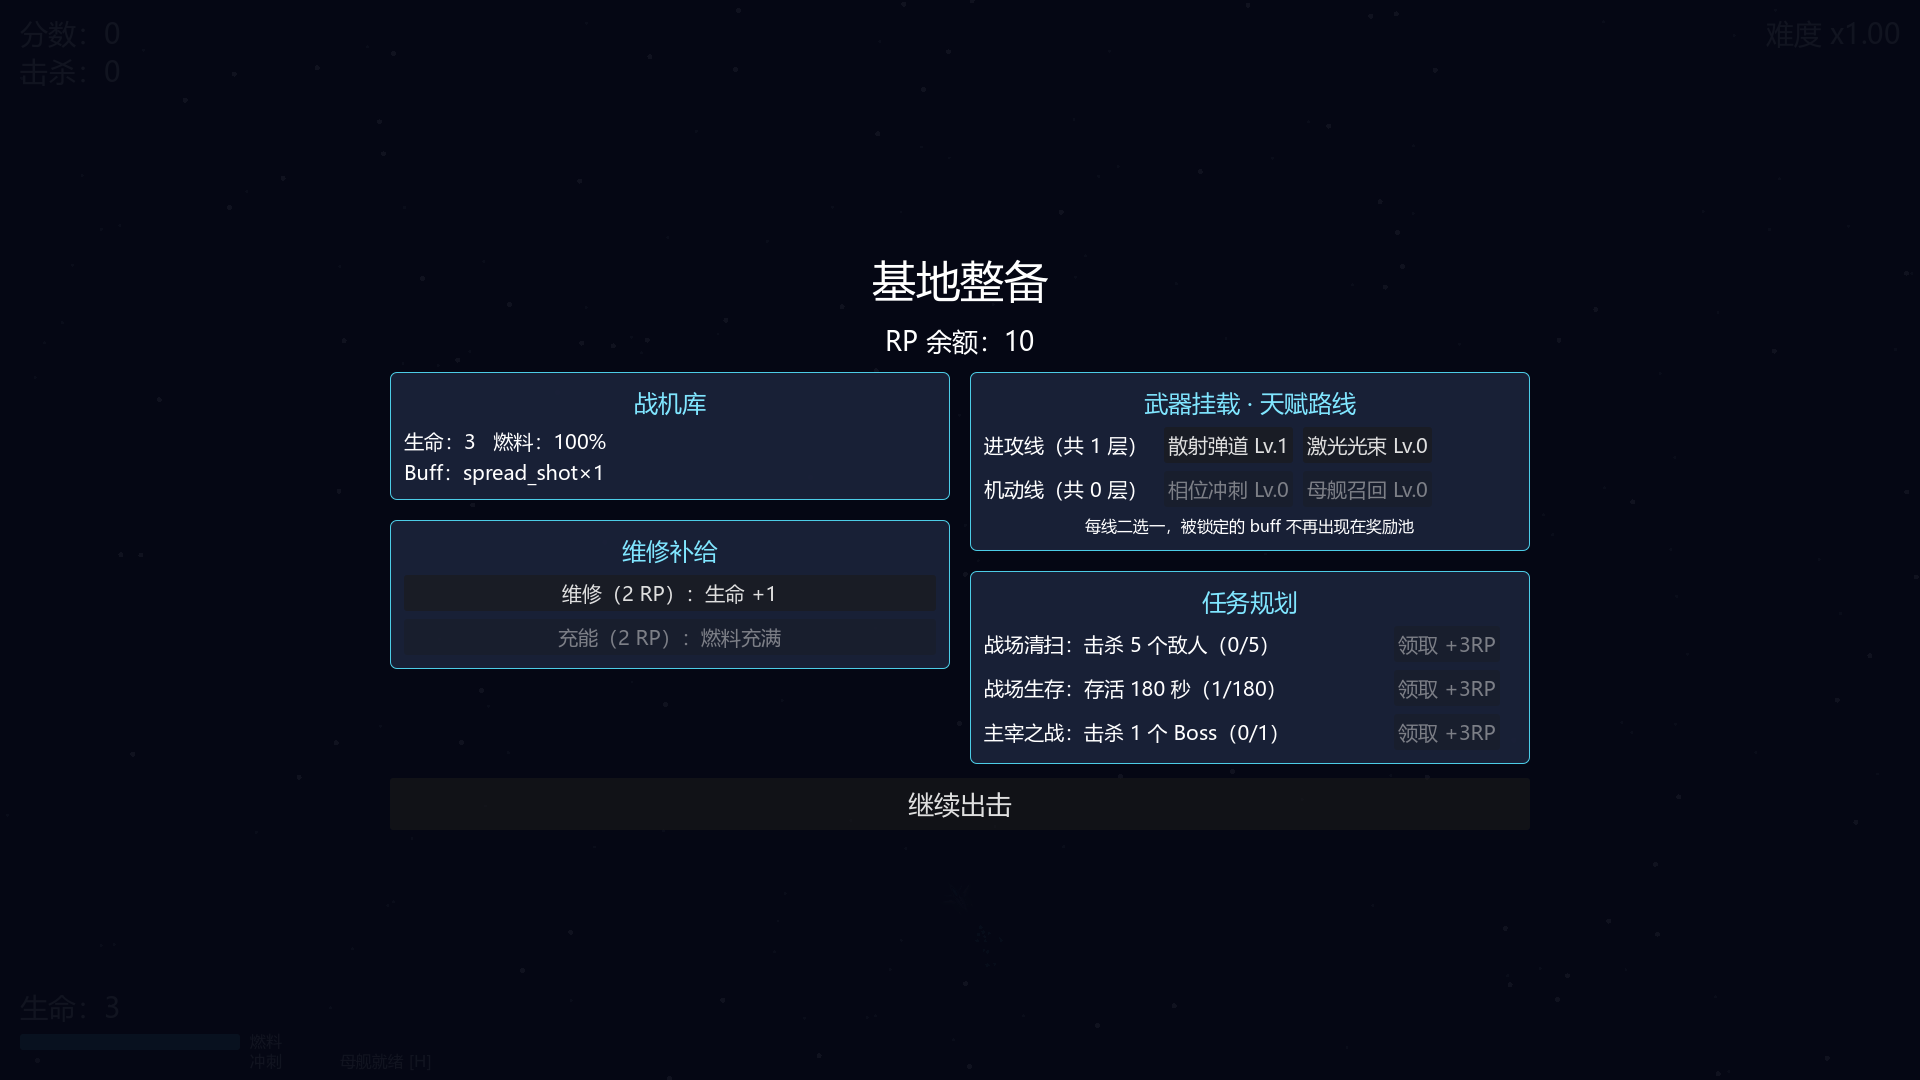
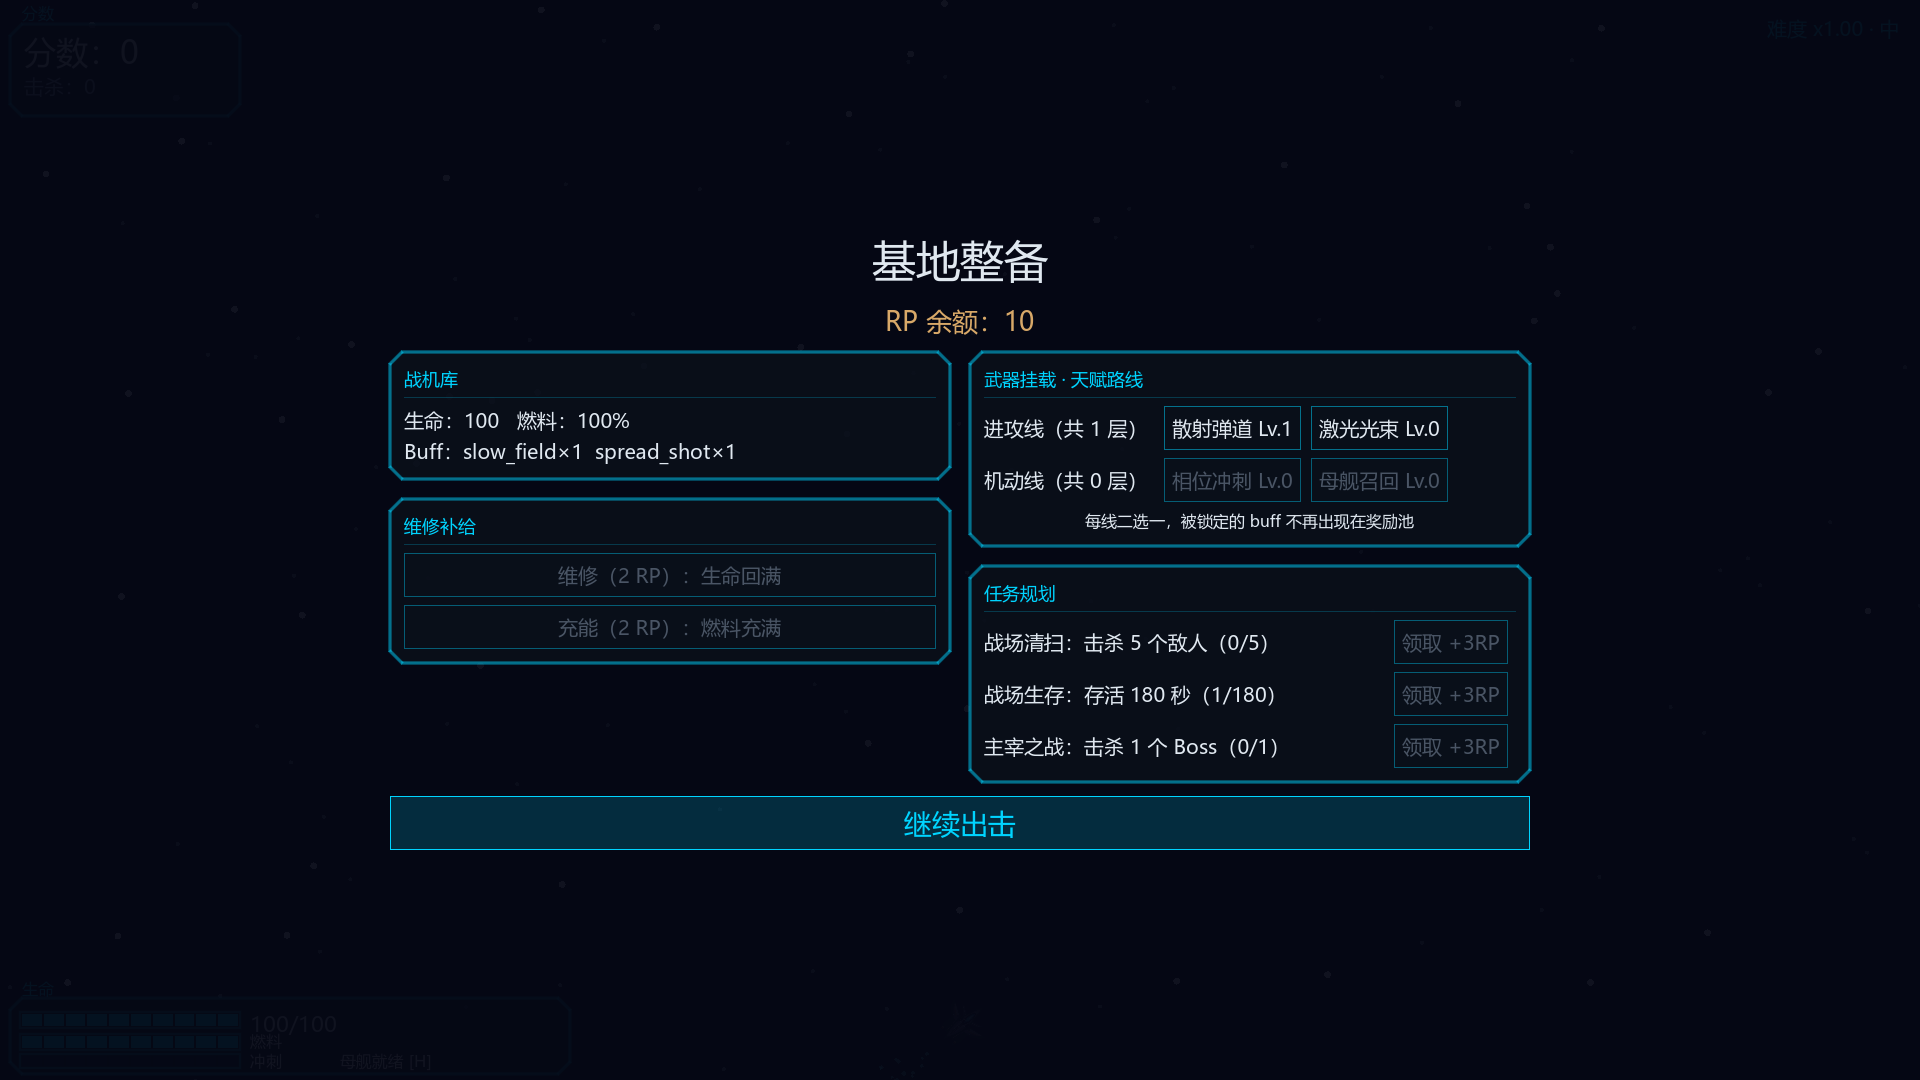
docs: README 中英双版重构——对齐当前功能全景
- 亮点/玩法循环:Boss 狂暴完整序列、全息 UI 设计系统、碰撞点光点、
  欢迎页、窗口大小三档、提前离舰进度条等全部补齐
- 运行验证:17 个测试场景 586 项断言全量列出(实测计数),
  新增 autoplay 探针与 ui_capture 说明
- 路线图:勾选 3.10,补 3.11-3.14 四个迭代
- 截图:gameplay/base 换新(新 UI+新机体可视性),新增主界面 start.png

Changed region(s): [[0.1875, 0.2139, 0.8125, 0.7944]]

diff --git a/README.en.md b/README.en.md
@@ -8,7 +8,7 @@
 
 [![Godot](https://img.shields.io/badge/godot-4.6-478cbf?logo=godot-engine&logoColor=white)](https://godotengine.org/)
 [![GDScript](https://img.shields.io/badge/GDScript-100%25-478cbf)](https://docs.godotengine.org/en/stable/tutorials/scripting/gdscript/)
-[![Tests](https://img.shields.io/badge/tests-446%20passed-brightgreen)](#verification)
+[![Tests](https://img.shields.io/badge/tests-586%20passed-brightgreen)](#verification)
 [![Platform](https://img.shields.io/badge/platform-macOS%20%7C%20Windows%20%7C%20Linux-lightgrey)](#getting-started)
 
 <img src="./docs/screenshots/gameplay.png" alt="InfiAir gameplay" width="760">
@@ -34,16 +34,18 @@
 
 - **A complete sortie loop**: fight waves → pick 1-of-3 buffs at score milestones → rotating bosses → return to base for a mid-run refit → sortie again. Death is the only end.
 - **16 stackable buffs**: damage, fire rate, spread, piercing, explosive, lifesteal, armor, evasion, phase dash, slow field, laser beam and more — drafted at score milestones.
-- **3 rotating bosses + enrage**: heavy / skirmisher / mothership archetypes; they enrage below 30% HP, and flee the battle if you can't kill them within 50 seconds.
-- **Mothership docking**: charge-up summon with automatic point-snap docking — twin turrets sweeping an upward 80° fan, homing-free missile volleys (up to 5 targets), and direct WASD control of the mothership itself while docked. A low-ammo warning precedes a forced undock, or hold H to undock early for a cooldown refund.
+- **3 rotating bosses + a full enrage sequence**: heavy / skirmisher / mothership archetypes. Below 30% HP a boss enters a scripted enrage — HP-lock checkpoint, bullet time, an orbiting attack run around your ship (square → circular path) while you're rooted in place, then a dense release barrage before returning to the fight. Fail to kill within 50 seconds and the boss flees.
+- **Mothership docking**: charge-up summon with a holographic ghost preview and automatic point-snap docking — twin turrets sweeping an upward 80° fan, missile volleys (up to 5 targets), and direct WASD control of the mothership itself while docked. A low-ammo warning precedes a forced undock, or hold H to undock early (with a charge progress bar) for a cooldown refund.
 - **Mid-run base refit**: homecoming does NOT end the run. Four base modules — hangar, weapon hardpoints (mutually exclusive talent routes), repair & resupply (RP economy), and mission planning — then you return to the same battle.
+- **Holographic sci-fi UI design system**: unified color tokens and type scale, chamfered panels, primary/secondary button hierarchy, staggered fade-in motion — every screen (start / settings / pause / game over / buff draft / base) shares one skeleton.
+- **Arcade-grade visibility**: brightened player ship with a cyan rim glow, plus a pulsing hitbox dot on the actual r=7 collision point — never lose your ship in bullet hell.
 - **Fully procedural assets**: all ship sprites are procedurally generated (inherited from the Python original); SFX and BGM are synthesized by `scripts/tools/generate_audio.py`. Zero external asset dependencies.
 
 ## 🖼 Screenshots
 
-| Gameplay | Mothership docking | Base refit |
-|----------|--------------------|------------|
-| ![Gameplay](./docs/screenshots/gameplay.png) | ![Mothership](./docs/screenshots/mothership.png) | ![Base](./docs/screenshots/base.png) |
+| Main menu | Gameplay | Base refit |
+|-----------|----------|------------|
+| ![Main menu](./docs/screenshots/start.png) | ![Gameplay](./docs/screenshots/gameplay.png) | ![Base](./docs/screenshots/base.png) |
 
 ## 🎮 Controls
 
@@ -55,13 +57,15 @@
 | Shift (hold) | Boost (~1.8x speed, drains fuel) |
 | Ctrl (hold) | Precision movement (speed ×0.35) |
 | Space | Phase dash (requires buff; invulnerable, costs 25% fuel) |
-| H (hold 3s) | Charge-summon the mothership (WASD pilots the ship while docked; hold H 2s for early undock) |
+| H (hold 3s) | Charge-summon the mothership (WASD pilots the ship while docked; hold H 2s for early undock, with progress bar) |
 | B (hold 1.5s) | Homecoming — mid-run base refit |
 | K (hold 3s) | Abandon the sortie |
-| ESC | Pause (the pause menu holds the only save entry) |
+| ESC | Global back: pause in combat (only save entry) / back one page / exit confirmation at top level |
 | R | Restart (on game-over / pause screens) |
 
-> Three view zoom levels (Small 1.0 / Medium 1.35 / Large 1.7, default Medium): Settings → Modes → View (persisted in `user://profile.json`; the HUD lives on a CanvasLayer and is unaffected by camera zoom).
+> All keys are rebindable in Settings → Controls (Esc/R are fixed; bindings persist in `user://profile.json`).
+> UI language: English / 中文 via Settings → Modes → Language.
+> Three view zoom levels (1.0 / 1.35 / 1.7, default Medium) and three window sizes (1280×720 / 1600×900 / 1920×1080, default Large) — independent settings, both persisted.
 
 ## 🚀 Getting Started
 
@@ -78,24 +82,29 @@ godot --path .          # run directly, or open the project in the editor and pr
 - Start with 100 HP: taking a hit grants 1.5s of invulnerability and clears enemy bullets within 250px; HP slowly regenerates after a few seconds out of combat (rate varies by difficulty), and can be fully restored by base repairs (2 RP) or mothership resupply; **pure score-based — no item drops**.
 - 4 enemy classes × 8 movement patterns, unlocked progressively by score; 3 elite variants; enemy bullets come in single / spread / laser types (12/10/20 damage, plus 20 for body collisions).
 - Milestone thresholds (starting at 3000, scaling up per cycle) pause the game for a 1-of-3 buff draft; bosses spawn every 1500 points or 90s, granting +500 points and raising the difficulty multiplier (`1 + (2^min(kills,10) − 1) × 0.25`, capped at 8x).
+- Boss enrage below 30% HP: HP locks at the 30% checkpoint (invulnerable during the sequence) → bullet time → the boss orbits your snapshot position while rooting you in place (you can still shoot) → unlock + dense release barrage → returns to the fight permanently enraged (fire rate ×1.5).
 - RP (requisition points) come from boss kills (+5) and base missions (+3), spent on repairs and fuel at the base.
 - Save anytime via the pause menu; continue from the title panel on next launch. Death deletes the save.
-- The start panel includes a tutorial entry: a 6-stage tutorial (movement & aim / boost & dash / combat / mothership docking / homecoming & base / boss enrage); Esc quits anytime, and the button shows "Tutorial ✓" once completed.
+- A welcome screen greets the first launch; the start panel includes a tutorial entry: 6 stages (movement & aim / boost & dash / combat / mothership docking / homecoming & base / boss enrage); Esc quits anytime, and the button shows "Tutorial ✓" once completed.
 
 ## 🏗 Architecture
 
 ```text
 main.tscn (run orchestration)
- ├─ Player (movement / aim assist / auto-fire / fuel / phase dash / laser weapon)
+ ├─ Player (movement / aim assist / auto-fire / fuel / phase dash / laser weapon / hitbox indicator)
  ├─ Spawner (7 enemy-class config tables + score-gated unlocks + boss rotation)
  ├─ Mothership (auto-dock state machine: summon → dock → stay (piloting + sweep + missiles) → release → depart)
- ├─ HUD / BuffSelect / BaseConsole / GameOver / Pause / StartPanel
- └─ GameState (autoload: 100-HP health / score / buffs / RP / missions / routes / saves / SFX pool / shake)
+ ├─ Boss (3-type rotation + enrage sequence state machine: HP lock / orbit / root / barrage / return)
+ ├─ HUD / BuffSelect / BaseConsole / GameOver / Pause / Settings / StartPanel / Welcome
+ ├─ BackNavigator (global back/exit state machine: PC Esc, gamepad B, Android back — one route)
+ └─ GameState (autoload: 100-HP health / score / buffs / RP / missions / routes / saves / profile / SFX pool / shake)
 ```
 
-- Collision layers: `1=player 2=player_bullet 3=enemy 4=enemy_bullet`; bullets resolve damage on their side.
-- Balance config: `data/balance.json` holds all tunable values (player/enemies/boss/spawner/mothership/buffs/milestones/difficulty/effects), loaded once at startup via `GameState.cfg()` with per-key fallback to script defaults — tweak the JSON, no code changes needed.
-- Run save `user://savegame.json` and profile `user://profile.json` are versioned.
+- **Balance config**: `data/balance.json` holds all tunable values, accessed via `GameState.cfg()` with per-key fallback to script defaults — tweak the JSON, no code changes needed.
+- **UI design system**: `scripts/ui_theme.gd` provides color tokens, a type scale (72/40/28/24/18), and component factories (page skeleton / primary & secondary buttons / section headers / motion) shared by every screen.
+- **Performance**: bullet/enemy/explosion object pooling, registries instead of group queries, trig lookup tables, throttled HUD; a `--fixed-fps` benchmark scene measures raw frame time.
+- Collision layers: `1=player 2=player_bullet 3=enemy 4=enemy_bullet`; bullets resolve damage on their side; hits only count on the r=7 hitbox point.
+- Run save `user://savegame.json` and profile `user://profile.json` (high score / difficulty / keybinds / locale / view / window size) are versioned; corrupted files are quarantined automatically.
 - Tests are headless scene scripts (no framework) — see `AGENTS.md`.
 
 ## ✅ Verification
@@ -103,21 +112,33 @@ main.tscn (run orchestration)
 ```bash
 godot --headless --import --path .          # assets & script parsing
 godot --headless --path . --quit-after 300  # runtime smoke
-godot --headless --path . res://test/smoke_test.tscn        # main flow — 95 assertions
-godot --headless --path . res://test/base_system_test.tscn  # save/RP/missions/routes — 46
-godot --headless --path . res://test/enemy_combat_test.tscn # enemies & bosses — 31
-godot --headless --path . res://test/buff33_test.tscn       # buffs/mothership/give-up — 29
-godot --headless --path . res://test/difficulty_test.tscn   # difficulty/milestones/settings — 52
-godot --headless --path . res://test/boss_enrage_test.tscn  # boss enrage — 23
-godot --headless --path . res://test/tutorial_test.tscn     # tutorial — 19
-godot --headless --path . res://test/balance_test.tscn      # balance config — 25
-godot --headless --path . res://test/keybind_test.tscn      # key rebinding — 15
-godot --headless --path . res://test/i18n_test.tscn         # i18n zh/en — 9
-godot --headless --path . res://test/view_zoom_test.tscn    # view zoom — 43
-godot --headless --path . res://test/hit_logic_test.tscn    # hit & collision parity — 59
+godot --headless --path . res://test/smoke_test.tscn          # main flow — 111 assertions
+godot --headless --path . res://test/hit_logic_test.tscn      # hit & collision parity — 60
+godot --headless --path . res://test/difficulty_test.tscn     # difficulty/milestones/settings — 52
+godot --headless --path . res://test/base_system_test.tscn    # save/RP/missions/routes — 46
+godot --headless --path . res://test/view_zoom_test.tscn      # view zoom — 43
+godot --headless --path . res://test/startup_flow_test.tscn   # startup/corrupt saves/welcome — 40
+godot --headless --path . res://test/boss_enrage_test.tscn    # boss enrage sequence — 33
+godot --headless --path . res://test/enemy_combat_test.tscn   # enemies & bosses — 31
+godot --headless --path . res://test/buff33_test.tscn         # buffs/mothership/give-up — 29
+godot --headless --path . res://test/tutorial_test.tscn       # tutorial — 29
+godot --headless --path . res://test/balance_test.tscn        # balance config — 25
+godot --headless --path . res://test/back_navigation_test.tscn # back/exit state machine — 23
+godot --headless --path . res://test/window_size_test.tscn    # window size — 17
+godot --headless --path . res://test/keybind_test.tscn        # key rebinding — 15
+godot --headless --path . res://test/pool_reuse_test.tscn     # object pool reuse — 12
+godot --headless --path . res://test/esc_navigation_test.tscn # Esc navigation — 11
+godot --headless --path . res://test/i18n_test.tscn           # i18n zh/en — 9
 ```
 
-446 assertions, all passing.
+Plus automated probes (not assertion tests):
+
+```bash
+godot --headless --path . res://test/autoplay_test.tscn  # ≥8 min simulated human play: full interaction coverage + anomaly monitors
+godot --path . res://test/ui_capture.tscn                # windowed six-screen UI capture (/tmp/ui_*.png)
+```
+
+**586 assertions across 17 test scenes, all passing.**
 
 ## 🗺 Roadmap
 
@@ -127,13 +148,16 @@ godot --headless --path . res://test/hit_logic_test.tscn    # hit & collision pa
 - [x] Mothership docking (charge summon / magazine stay / sweep fire / early undock)
 - [x] Mid-run base refit (4 modules + RP economy + talent routes)
 - [x] Combat parity (aim assist / 3 enemy bullet types / boss escape / 8 movement patterns)
-- [x] Difficulty selection (easy / normal / hard) & full boss enrage — iteration 3.4
-- [x] Performance optimization (bullet/explosion pooling, group-query caching, HUD throttling) — iteration 3.4
-- [x] Tutorial (6 stages, via the start panel; completion recorded in profile) — iteration 3.5
-- [x] Three-level view zoom (small / medium / large) — iteration 3.7
-- [x] Hit & collision parity pass (r7 hitbox / boss body collision / enrage HP lock / per-type bullet damage) — iteration 3.8
-- [x] 100-HP damage model & full Appendix-A parity (hit-rule chain / mothership auto-dock + missiles + piloting / combat number review) — iteration 3.9
-- [ ] Game entry page (welcome scene, single-player, replacing StartPanel as the entry) — iteration 3.10
+- [x] Difficulty selection + performance pass (pooling / registries / HUD throttling) — iteration 3.4
+- [x] Tutorial (6 stages) — iteration 3.5
+- [x] Three-level view zoom — iteration 3.7
+- [x] Hit & collision parity pass (r7 hitbox / boss body collision / per-type bullet damage) — iteration 3.8
+- [x] 100-HP damage model & full Appendix-A parity — iteration 3.9
+- [x] Welcome screen + startup hardening + global back/exit state machine — iteration 3.10
+- [x] Object-pool reuse fix + autoplay simulated-play probe — iteration 3.11
+- [x] Window size levels + mothership early-undock progress bar — iteration 3.12
+- [x] UI design system refactor (unified skeleton / button hierarchy / all screens migrated) — iteration 3.13
+- [x] Full boss enrage sequence (HP lock / orbit attack / root / barrage) + player visibility (brighten / rim glow / hitbox dot) — iteration 3.14
 - [ ] Release builds (deferred)
 
 The item-by-item parity checklist against the original, the iteration history, and the roadmap live in [docs/PORTING_PARITY.md](./docs/PORTING_PARITY.md).
@@ -142,11 +166,11 @@ The item-by-item parity checklist against the original, the iteration history, a
 
 Issues and PRs are welcome! Before submitting, please make sure:
 
-1. All four headless test suites above pass;
-2. You follow the conventions in `AGENTS.md` (collision layers, code style, test strategy);
+1. All headless test suites above pass;
+2. You follow the conventions in `AGENTS.md` (collision layers, UI design system, code style, test strategy);
 3. Gameplay changes update the corresponding row in `docs/PORTING_PARITY.md`.
 
-Reference projects: [nezvers/Godot-GameTemplate](https://github.com/nezvers/Godot-GameTemplate), [quiver-dev/top-down-shooter-core](https://github.com/quiver-dev/top-down-shooter-core), [Unchained112/SimpleTopDownShooterTemplate2D](https://github.com/Unchained112/SimpleTopDownShooterTemplate2D).
+Reference projects: [nezvers/Godot-GameTemplate](https://github.com/nezvers/Godot-GameTemplate), [quiver-dev/top-down-shooter-core](https://github.com/quiver-dev/top-down-shooter-core), [Unchained112/SimpleTopDownShooterTemplate2D](https://github.com/Unchained112/SimpleTopDownShooterTemplate2D), [Maaack/Godot-Menus-Template](https://github.com/Maaack/Godot-Menus-Template).
 
 ## 📄 License
 
